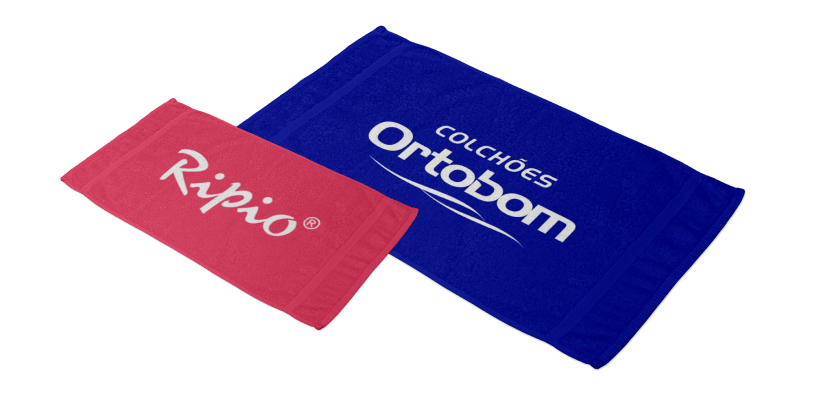
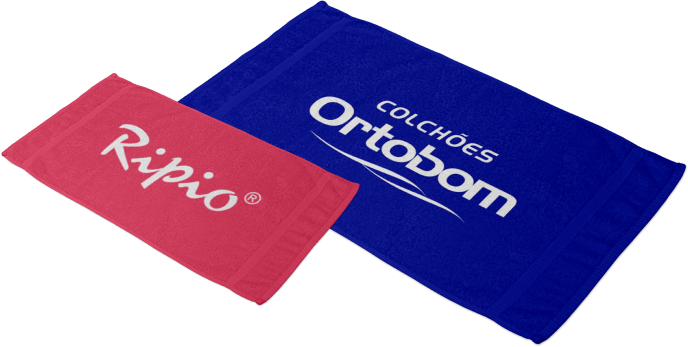
alt img hero

diff --git a/index.html b/index.html
@@ -107,7 +107,7 @@
                   src="assets/img/whatsapp-btn.svg" width="40px" style="padding-left: 10px;"></a>
             </div>
             <div class="hero-item">
-              <img class="animate__animated animate__fadeInUp" src="assets/img/hero-img2.png" width="350px">
+              <img class="animate__animated animate__fadeInUp hero-img" src="assets/img/hero-img2.png">
             </div>
           </div>
         </div>
@@ -124,7 +124,7 @@
                   src="assets/img/whatsapp-btn.svg" width="40px" style="padding-left: 10px;"></a>
             </div>
             <div class="hero-item">
-              <img class="animate__animated animate__fadeInUp" src="assets/img/hero-img3.png" width="400px">
+              <img class="animate__animated animate__fadeInUp hero-img" src="assets/img/hero-img3.png">
             </div>
           </div>
         </div>
@@ -141,7 +141,7 @@
                   src="assets/img/whatsapp-btn.svg" width="40px" style="padding-left: 10px;"></a>
             </div>
             <div class="hero-item">
-              <img class="animate__animated animate__fadeInUp" src="assets/img/hero-img1.png" width="500px">
+              <img class="animate__animated animate__fadeInUp hero-img" src="assets/img/hero-img1.png">
             </div>
           </div>
         </div>

diff --git a/assets/css/main.css b/assets/css/main.css
@@ -664,6 +664,10 @@ section,
   animation-delay: 0.4s;
 }
 
+.hero-img {
+  width: 80%;
+}
+
 .hero .carousel-control-prev,
 .hero .carousel-control-next {
   width: 10%;
@@ -714,8 +718,23 @@ section,
     min-height: 90vh;
   }
 
+  .hero-item {
+    margin-top: 50px;
+    width: 100%;
+    text-align: center;
+  }
+
   .hero h2 {
-    font-size: 28px;
+    font-size: 20px;
+  }
+  
+  .hero p {
+    width: 100%;
+    font-size: 14px;
+  }
+
+  .hero-img {
+    width: 100%;
   }
 }
 
